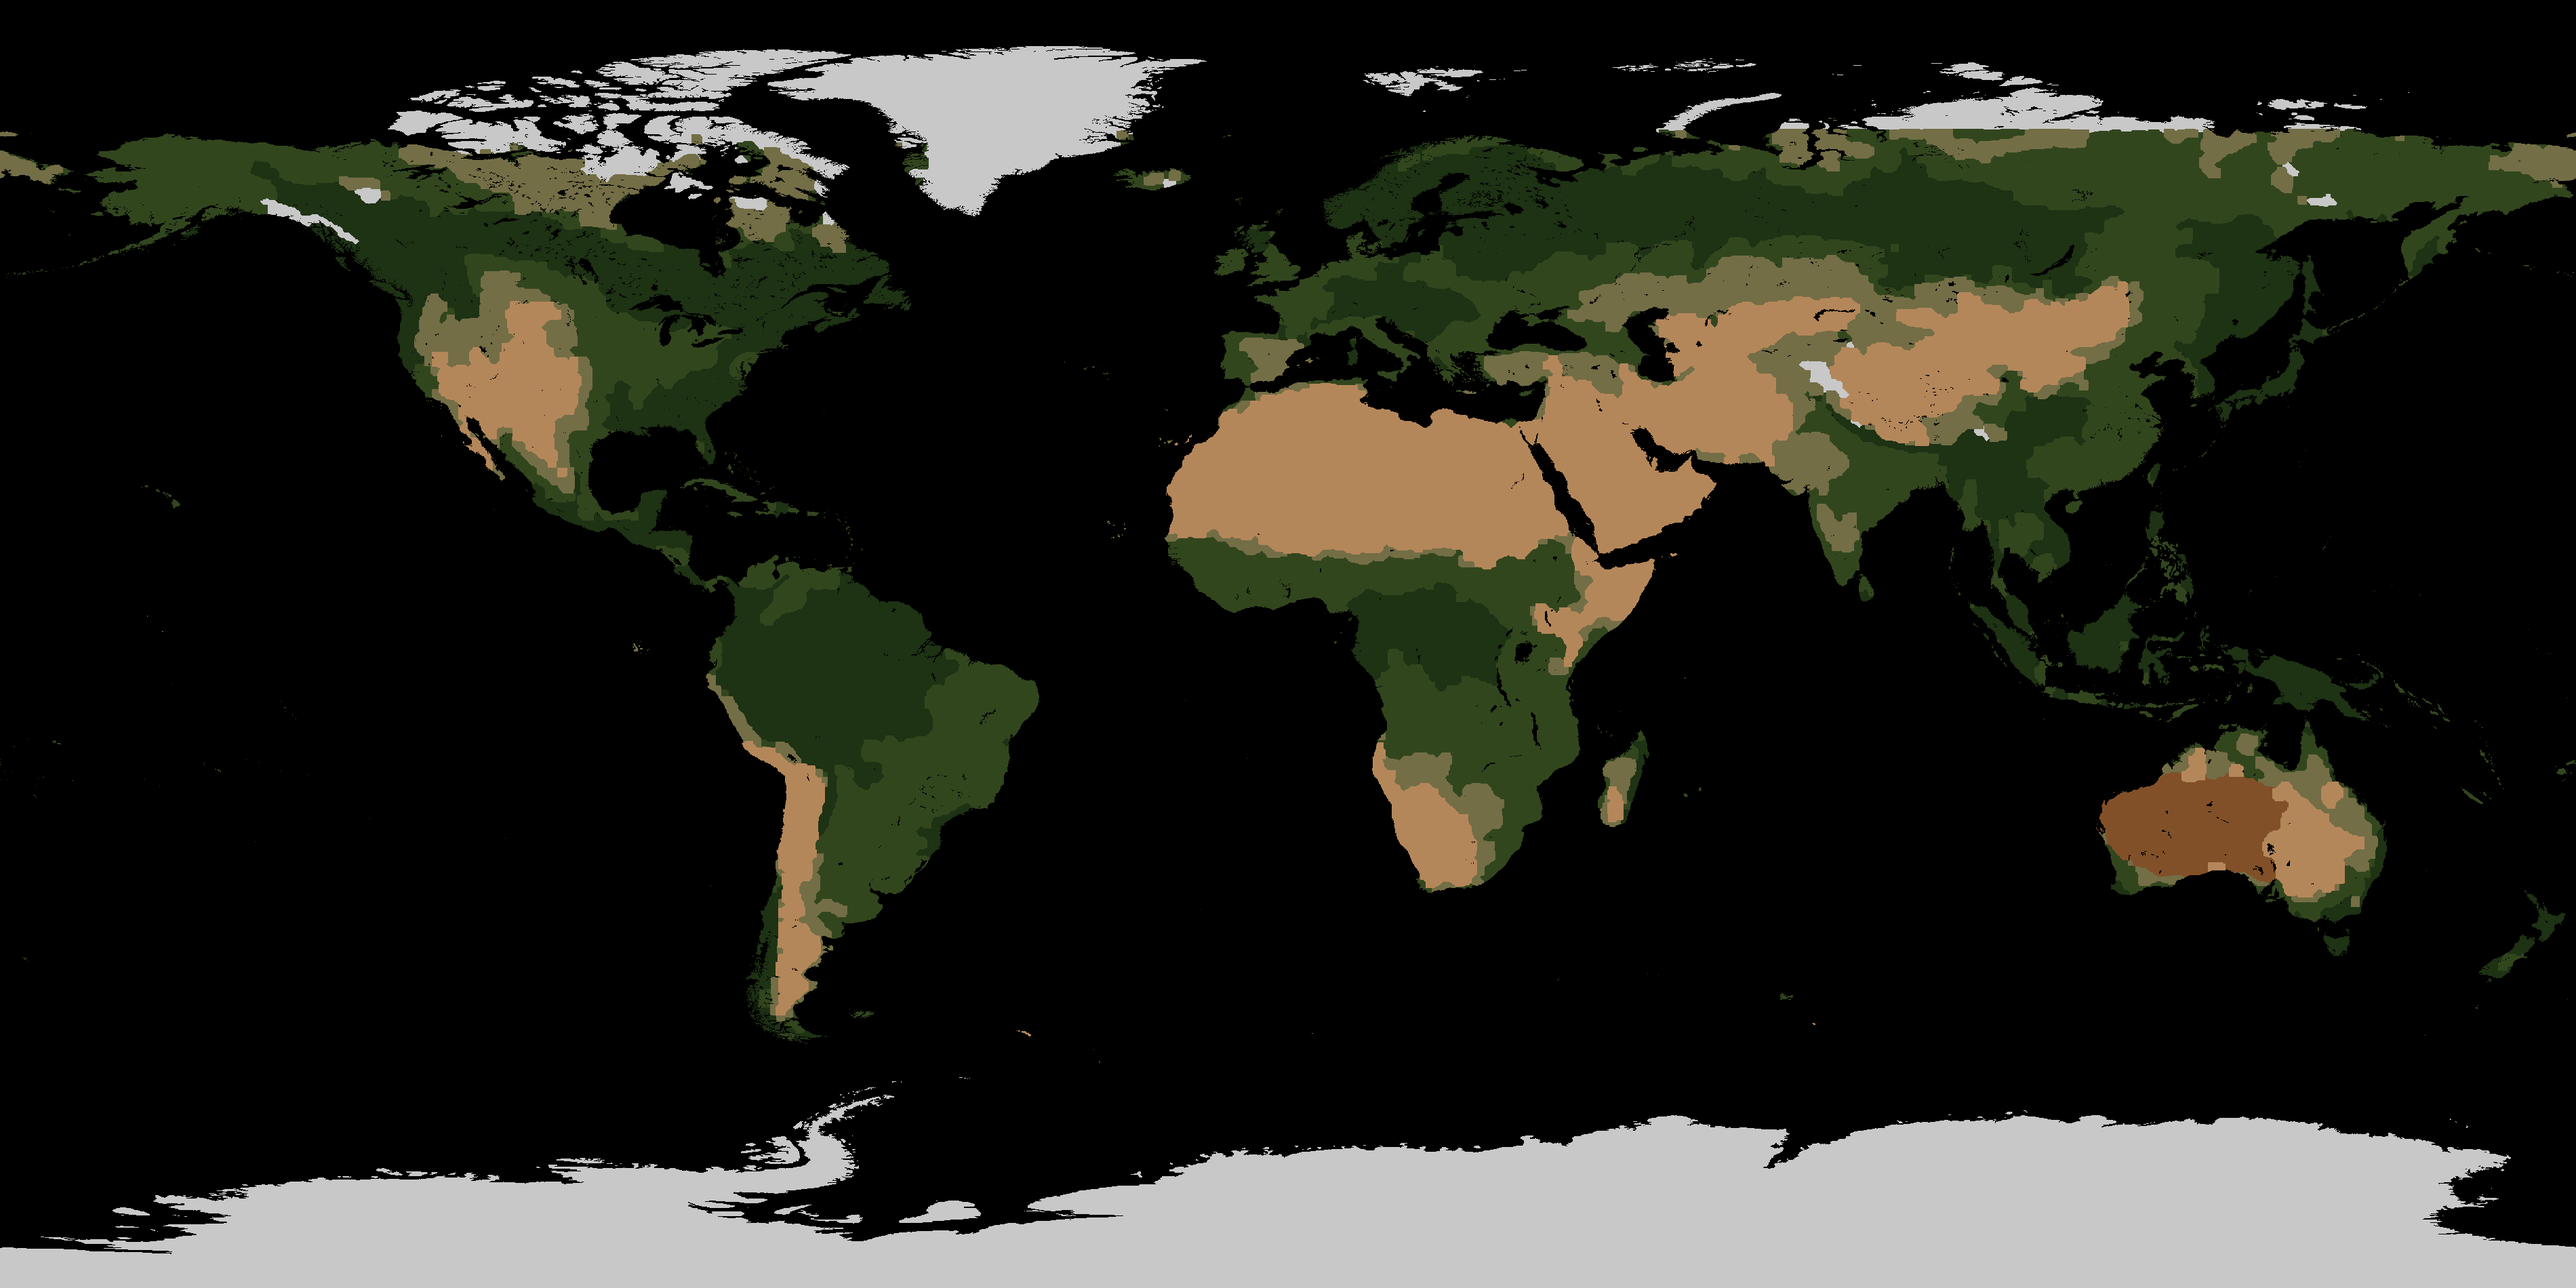
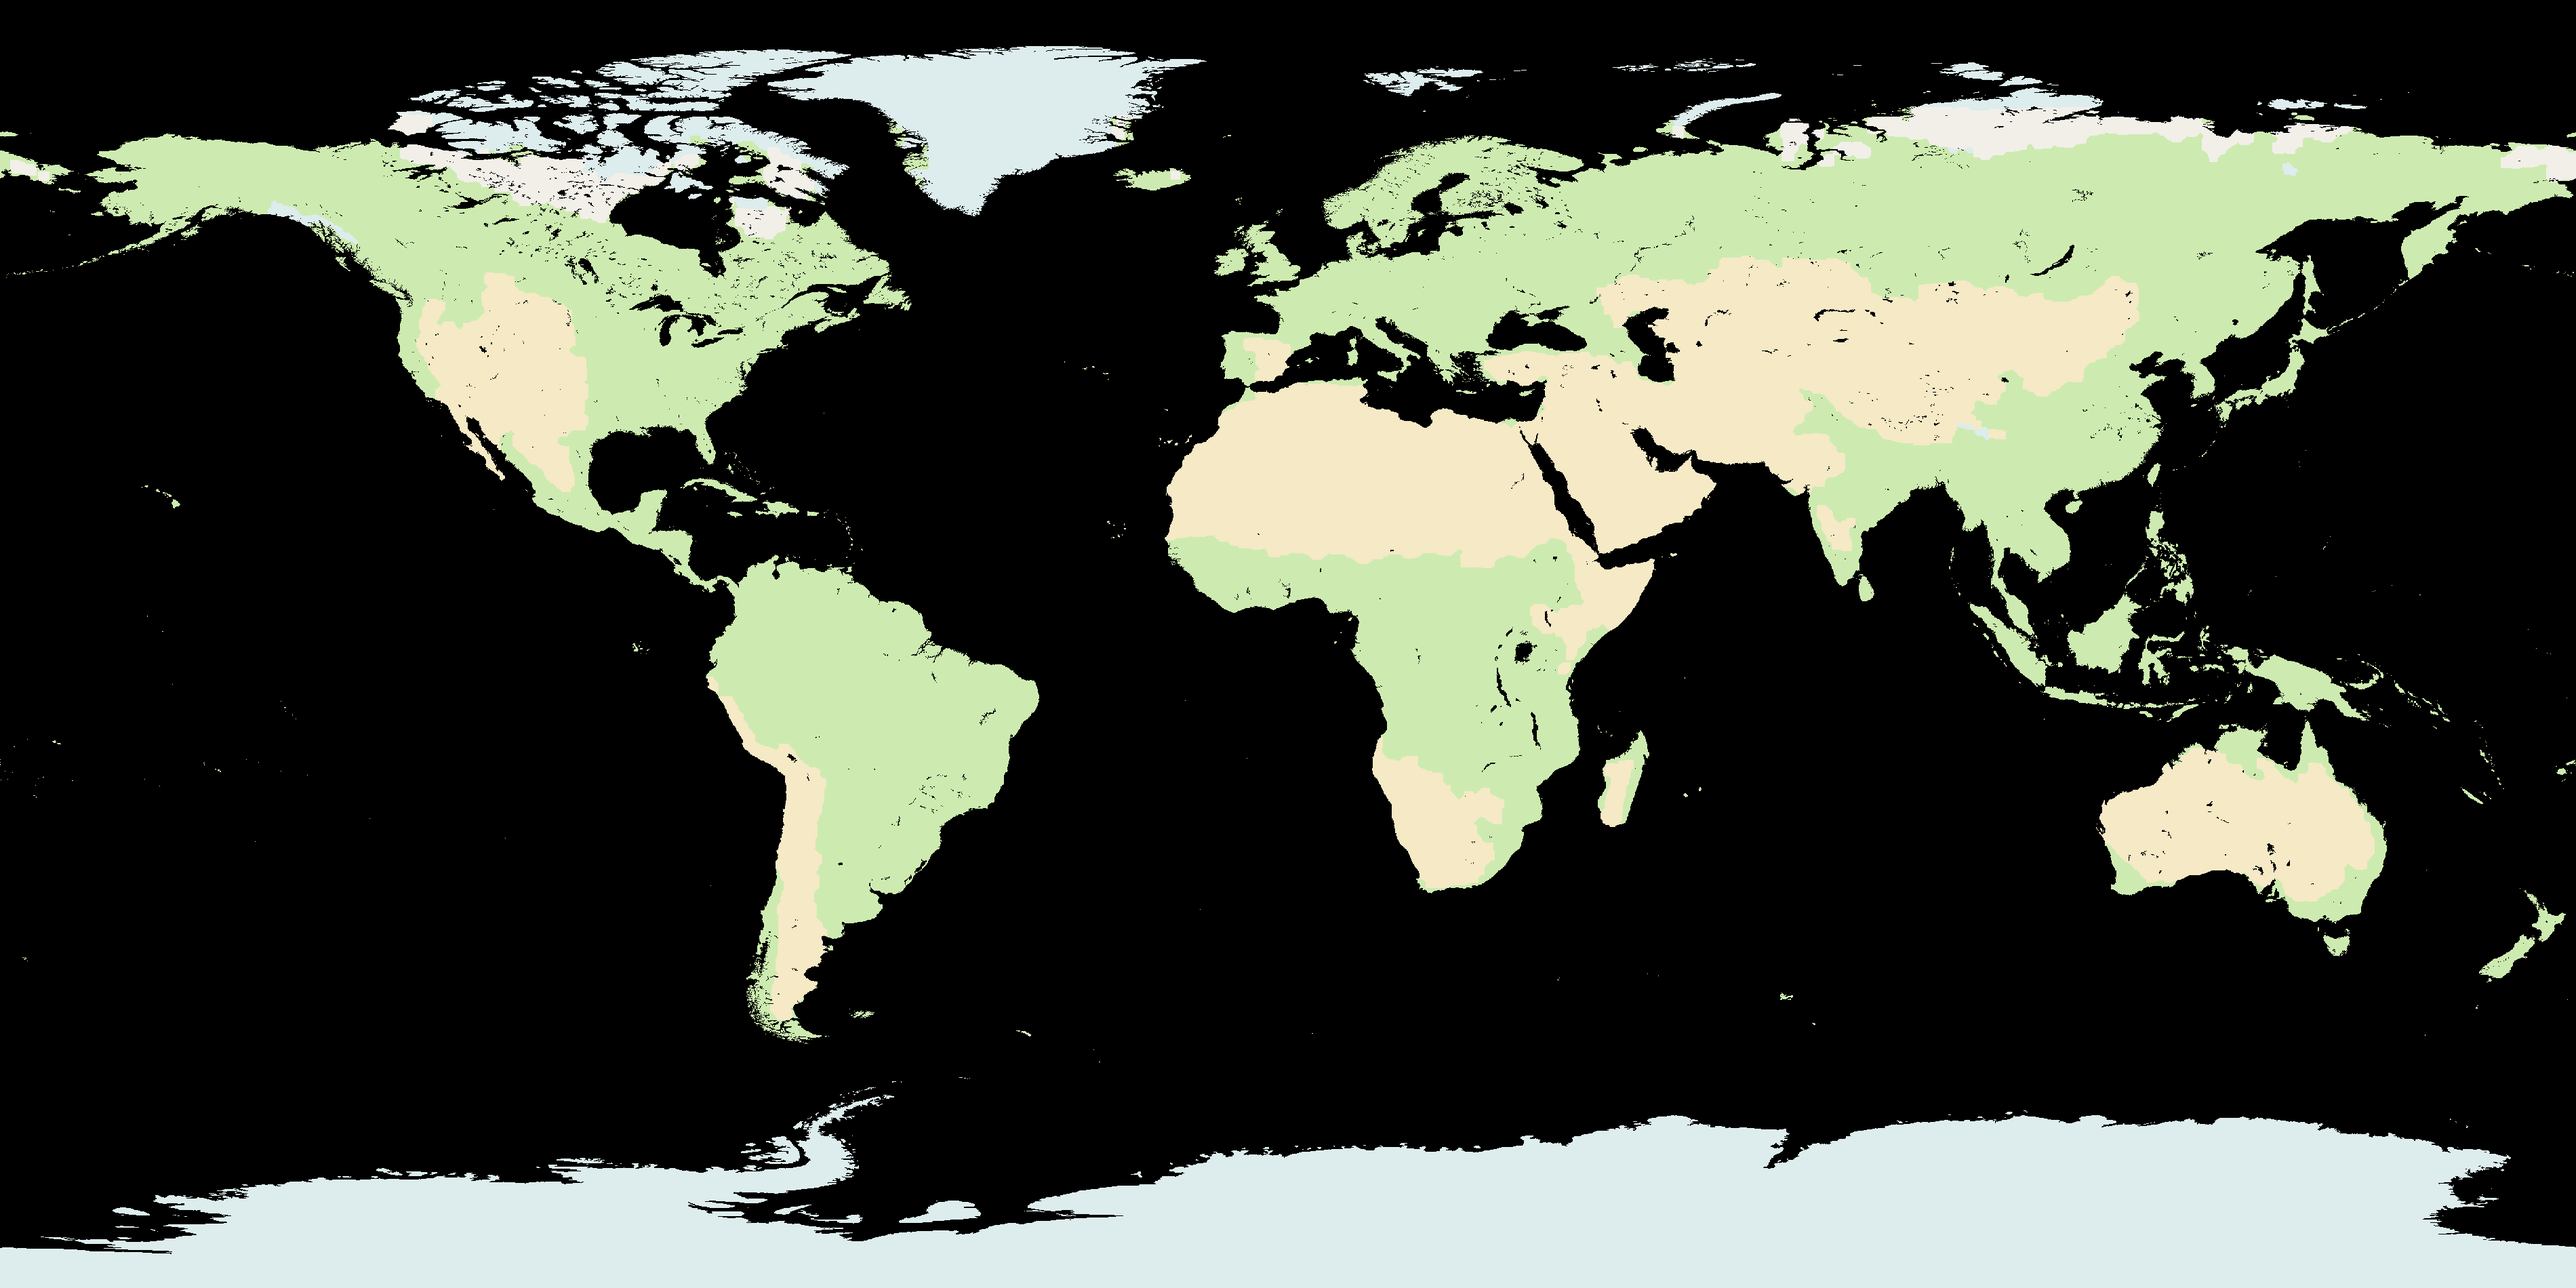
Update basemap

diff --git a/app/src/main/java/com/kylecorry/trail_sense/shared/dem/ContourLayer.kt b/app/src/main/java/com/kylecorry/trail_sense/shared/dem/ContourLayer.kt
@@ -57,6 +57,29 @@ class ContourLayer : IAsyncLayer {
             0xFFA52A2A.toInt(), // Brown (~1500m)
             0xFFFF4500.toInt(), // Orange (~2000m)
             0xFF800080.toInt()  // Purple (~3000m)
+            /*
+            // These don't work well when the background color is green (they are meant to fill in the contours)
+            // https://en.wikipedia.org/wiki/Wikipedia:WikiProject_Maps/Conventions/Topographic_maps
+            0xACD0A5, // 0m
+            0x94BF8B, // 250m
+            0xA8C68F, // 500m
+            0xBDCC96, // 750m
+            0xD1D7AB, // 1000m
+            0xE1E4B5, // 1250m
+            0xEFEBC0, // 1500m
+            0xE8E1B6, // 1750m
+            0xDED6A3, // 2000m
+            0xD3CA9D, // 2250m
+            0xCAB982, // 2500m
+            0xC3A76B, // 2750m
+            0xB9985A, // 3000m
+            0xAA8753, // 3250m
+            0xAC9A7C, // 3500m
+            0xBAAE9A, // 3750m
+            0xCAC3B8, // 4000m
+            0xE0DED8, // 4250m
+            0xF5F4F2  // 4500m
+             */
         )
     )
     private val minScaleElevation = 0f

diff --git a/app/src/main/java/com/kylecorry/trail_sense/shared/map_layers/ui/layers/BaseMapLayerManager.kt b/app/src/main/java/com/kylecorry/trail_sense/shared/map_layers/ui/layers/BaseMapLayerManager.kt
@@ -55,12 +55,13 @@ class BaseMapLayerManager(
             loadPdfs = false,
             isPixelPerfect = true,
             operations = listOf(
+                // https://en.wikipedia.org/wiki/Wikipedia:WikiProject_Maps/Conventions/Topographic_maps
                 // TODO: Allow the user to replace the land color
 //                Threshold(10f),
-//                ReplaceColor(Color.WHITE, "#7DBA4E".toColorInt()),
+//                ReplaceColor(Color.WHITE, "#BDCC96".toColorInt()),
                 // TODO: Allow the user to replace the water color
                 // Replace the water color
-                ReplaceColor(Color.BLACK, "#4A90E2".toColorInt())
+                ReplaceColor(Color.BLACK, "#AAD3DF".toColorInt())
             )
         )
     }
